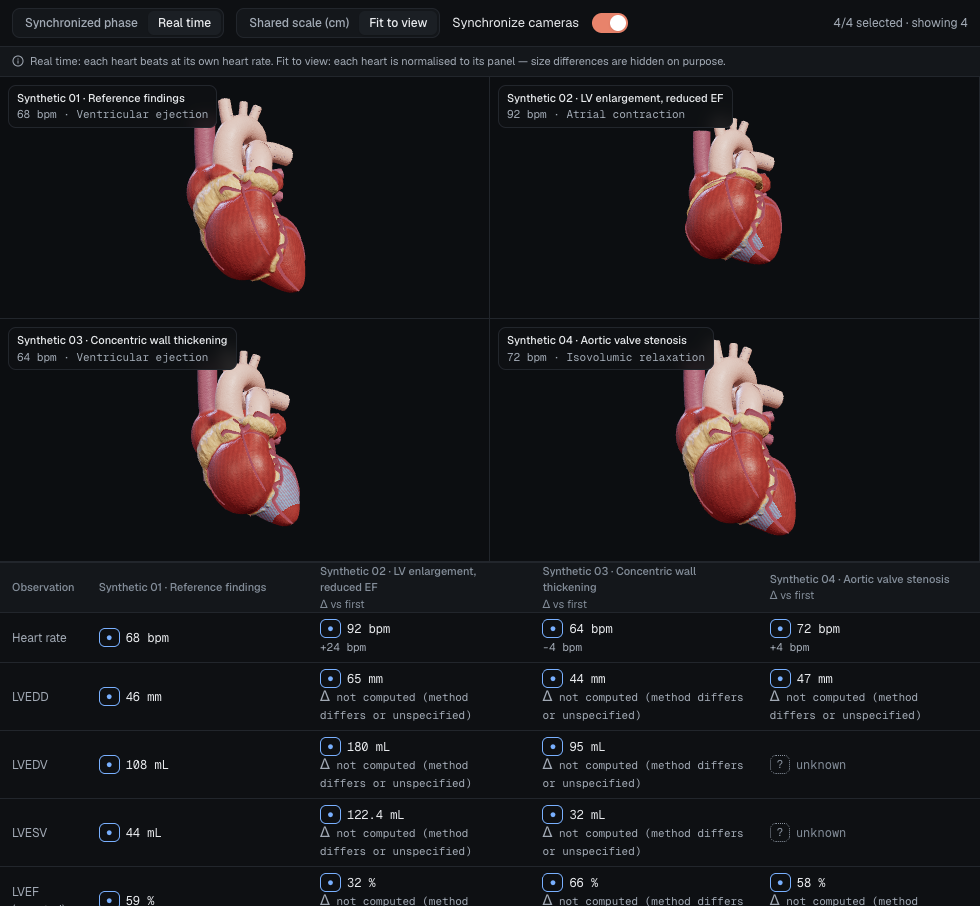
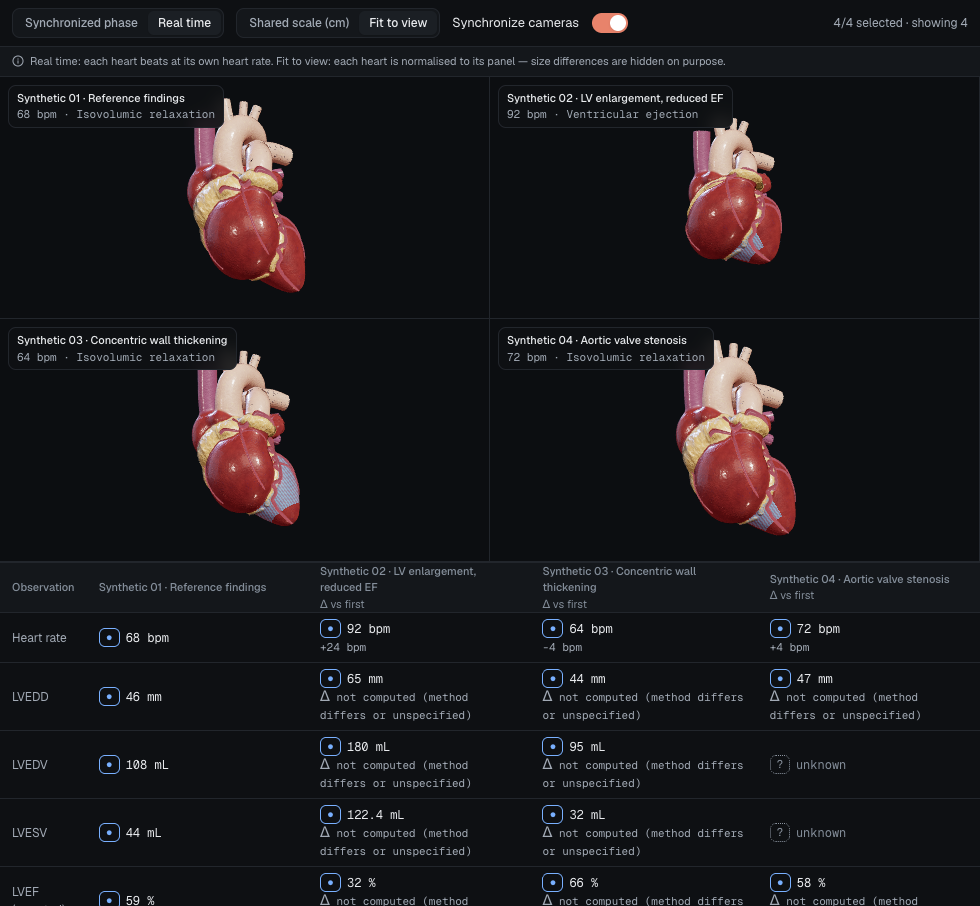
Tissue look: wet serous coat, mottled dark myocardium, venules, lobulated fat
Clearcoat raised and sharpened (weaker on thin vessels), darker mottled
myocardium with congested patches, sparse subepicardial venules, pale
yellow-white great-artery adventitia, lobulated glossy fat with relief,
crevice darkening at fat borders and a grazing-angle translucency rim.
Shape, deformation and data rules unchanged.

diff --git a/src/scene/materials/tissueMaterial.ts b/src/scene/materials/tissueMaterial.ts
@@ -106,18 +106,20 @@ export function createTissueMaterial(uniforms: TissueUniforms, opts: { clippingP
     color: 0xffffff,
     roughness: 0.5,
     metalness: 0,
-    clearcoat: 0.32,
-    clearcoatRoughness: 0.38,
-    sheen: 0.45,
-    sheenRoughness: 0.6,
-    sheenColor: new THREE.Color(0.55, 0.12, 0.1),
+    // wet serous surface (visceral pericardium): a thin, sharp coat over a rougher tissue base
+    clearcoat: 0.85,
+    clearcoatRoughness: 0.14,
+    sheen: 0.35,
+    sheenRoughness: 0.55,
+    sheenColor: new THREE.Color(0.6, 0.16, 0.12),
+    envMapIntensity: 1.25,
     side: opts.ghost ? THREE.FrontSide : THREE.DoubleSide,
     clippingPlanes: opts.clippingPlanes,
     transparent: !!opts.ghost,
     opacity: opts.ghost ? 0.22 : 1,
     depthWrite: !opts.ghost,
   });
-  mat.customProgramCacheKey = () => (opts.ghost ? "cor-tissue-ghost-v1" : "cor-tissue-v1");
+  mat.customProgramCacheKey = () => (opts.ghost ? "cor-tissue-ghost-v2" : "cor-tissue-v2");
   mat.onBeforeCompile = (shader) => {
     Object.assign(shader.uniforms, uniforms);
     shader.vertexShader = shader.vertexShader
@@ -165,20 +167,29 @@ export function createTissueMaterial(uniforms: TissueUniforms, opts: { clippingP
         float n1 = fbm3(vRest * 3.1);
         float n2 = vnoise(vRest * 11.0);
         if (uMode < 0.5) {
-          // natural tissue
-          vec3 myo = vec3(0.34, 0.062, 0.052) * (0.82 + 0.34 * n1);
-          // faint circumferential fibre striation
-          myo *= 0.94 + 0.06 * sin(lc.z * 0.9 + lc.x * 6.0 + n2 * 2.0);
-          vec3 endo = vec3(0.50, 0.17, 0.15) * (0.88 + 0.24 * n1);
+          // natural tissue: dark, mottled myocardium seen through a thin translucent epicardium
+          float mottle = fbm3(vRest * 1.3 + 7.0);
+          vec3 myo = mix(vec3(0.20, 0.03, 0.035), vec3(0.32, 0.06, 0.05), mottle) * (0.84 + 0.32 * n1);
+          myo = mix(myo, vec3(0.22, 0.04, 0.07), smoothstep(0.62, 0.85, fbm3(vRest * 0.8 - 3.0)) * 0.45); // bluish congested patches
+          vec3 endo = vec3(0.46, 0.13, 0.12) * (0.88 + 0.24 * n1);
           col = inner ? endo : myo;
-          vec3 artery = vec3(0.74, 0.55, 0.50) * (0.92 + 0.12 * n1);
-          vec3 vein = vec3(0.34, 0.13, 0.21) * (0.9 + 0.15 * n1);
+          // subepicardial venules: thin dark branching lines from ridged noise (outer myocardium only)
+          float rid = 1.0 - abs(2.0 * fbm3(vRest * 2.6 + 11.0) - 1.0);
+          float venule = smoothstep(0.955, 0.99, rid) * smoothstep(0.35, 0.6, fbm3(vRest * 0.9 + 5.0)) * (1.0 - fat) * (inner ? 0.0 : 1.0);
+          col = mix(col, vec3(0.16, 0.035, 0.09), venule * 0.55);
+          // great arteries: pale yellow-white adventitia with fatty flecks; great veins: dark blue-purple
+          vec3 artery = mix(vec3(0.74, 0.58, 0.47), vec3(0.86, 0.72, 0.46), smoothstep(0.5, 0.8, fbm3(vRest * 4.0))) * (0.86 + 0.2 * n1);
+          vec3 vein = vec3(0.30, 0.12, 0.24) * (0.9 + 0.15 * n1);
           if (kind > 0.5 && kind < 2.5) col = mix(col, kind < 1.5 ? artery : vein, smoothstep(0.3, 0.75, vStatic));
-          if (kind > 2.5 && kind < 3.5) col = vec3(0.56, 0.10, 0.08) * (0.9 + 0.2 * n2);
-          if (kind > 3.5) col = vec3(0.24, 0.07, 0.15) * (0.9 + 0.2 * n2);
-          float lob = smoothstep(0.35, 0.75, fbm3(vRest * 5.5));
-          vec3 fatCol = mix(vec3(0.74, 0.55, 0.24), vec3(0.88, 0.72, 0.38), lob);
-          col = mix(col, fatCol, fat * 0.92);
+          if (kind > 2.5 && kind < 3.5) col = vec3(0.74, 0.38, 0.32) * (0.9 + 0.2 * n2); // coronary artery: pale pink-tan wall
+          if (kind > 3.5) col = vec3(0.30, 0.10, 0.22) * (0.9 + 0.2 * n2);            // coronary vein: dark blood seen through a thin wall
+          // epicardial fat: lobulated yellow, brighter at lobule centres, thin edges let the muscle show through
+          float lob = fbm3(vRest * 6.5);
+          vec3 fatCol = mix(vec3(0.78, 0.56, 0.20), vec3(0.95, 0.80, 0.42), smoothstep(0.3, 0.8, lob));
+          col = mix(col, fatCol, smoothstep(0.05, 0.6, fat) * 0.95);
+          // crevice darkening where fat meets muscle and inside the cavities (cheap ambient occlusion)
+          col *= 1.0 - 0.28 * smoothstep(0.02, 0.25, fat) * (1.0 - smoothstep(0.25, 0.7, fat));
+          if (inner) col *= 0.85;
         } else {
           col = regionColor(region) * (0.85 + 0.15 * n1);
           if (inner) col *= 0.82;
@@ -217,9 +228,9 @@ export function createTissueMaterial(uniforms: TissueUniforms, opts: { clippingP
       `)
       .replace("#include <roughnessmap_fragment>", /* glsl */ `
         float roughnessFactor = roughness;
-        roughnessFactor = mix(0.46, 0.34, step(0.5, depth));
-        roughnessFactor = mix(roughnessFactor, 0.62, fat);
-        roughnessFactor += 0.08 * (n1 - 0.5);
+        roughnessFactor = mix(0.5, 0.36, step(0.5, depth));
+        roughnessFactor = mix(roughnessFactor, 0.32, fat);
+        roughnessFactor += 0.1 * (n1 - 0.5);
         if (!gl_FrontFacing) roughnessFactor = 0.9;
       `)
       .replace("#include <normal_fragment_maps>", /* glsl */ `
@@ -233,13 +244,33 @@ export function createTissueMaterial(uniforms: TissueUniforms, opts: { clippingP
           vec3 gv = (viewMatrix * vec4(g, 0.0)).xyz;
           float amp = gl_FrontFacing ? (inner ? 0.35 : 0.55) : 0.0;
           normal = normalize(normal - amp * (gv - dot(gv, normal) * normal));
+          // fat lobules: coarser rounded relief
+          vec3 qf = vRest * 6.5;
+          float f0 = fbm3(qf);
+          vec3 gf = vec3(fbm3(qf + vec3(0.12, 0, 0)) - f0, fbm3(qf + vec3(0, 0.12, 0)) - f0, fbm3(qf + vec3(0, 0, 0.12)) - f0) / 0.12;
+          vec3 gfv = (viewMatrix * vec4(gf, 0.0)).xyz;
+          float fa = gl_FrontFacing && uMode < 0.5 ? 0.09 * smoothstep(0.1, 0.6, vTissue.y) : 0.0;
+          normal = normalize(normal - fa * (gfv - dot(gfv, normal) * normal));
         }
+      `)
+      .replace("#include <lights_physical_fragment>", /* glsl */ `
+        #include <lights_physical_fragment>
+        #ifdef USE_CLEARCOAT
+          // thin vessels are mostly seen at grazing angles, where a strong coat hides the wall colour
+          material.clearcoat *= kind > 2.5 ? 0.35 : (fat > 0.3 ? 0.8 : 1.0);
+          material.clearcoatRoughness = clamp(material.clearcoatRoughness + 0.12 * (n2 - 0.5), 0.06, 0.4);
+        #endif
       `)
       .replace("#include <emissivemap_fragment>", /* glsl */ `
         #include <emissivemap_fragment>
         if (!gl_FrontFacing) totalEmissiveRadiance += diffuseColor.rgb * 0.55;
         // warm wrap term approximating light bleeding through thin tissue
         totalEmissiveRadiance += diffuseColor.rgb * vec3(0.10, 0.025, 0.02) * (1.0 - fat) * (uMode < 0.5 ? 1.0 : 0.0);
+        // forward scattering at grazing angles: thin tissue edges glow red, fat edges warm yellow
+        if (gl_FrontFacing && uMode < 0.5) {
+          float rim = pow(1.0 - clamp(dot(normal, normalize(vViewPosition)), 0.0, 1.0), 3.0);
+          totalEmissiveRadiance += mix(vec3(0.20, 0.025, 0.02), vec3(0.22, 0.14, 0.04), fat) * rim * 0.6;
+        }
       `);
   };
   return mat;
